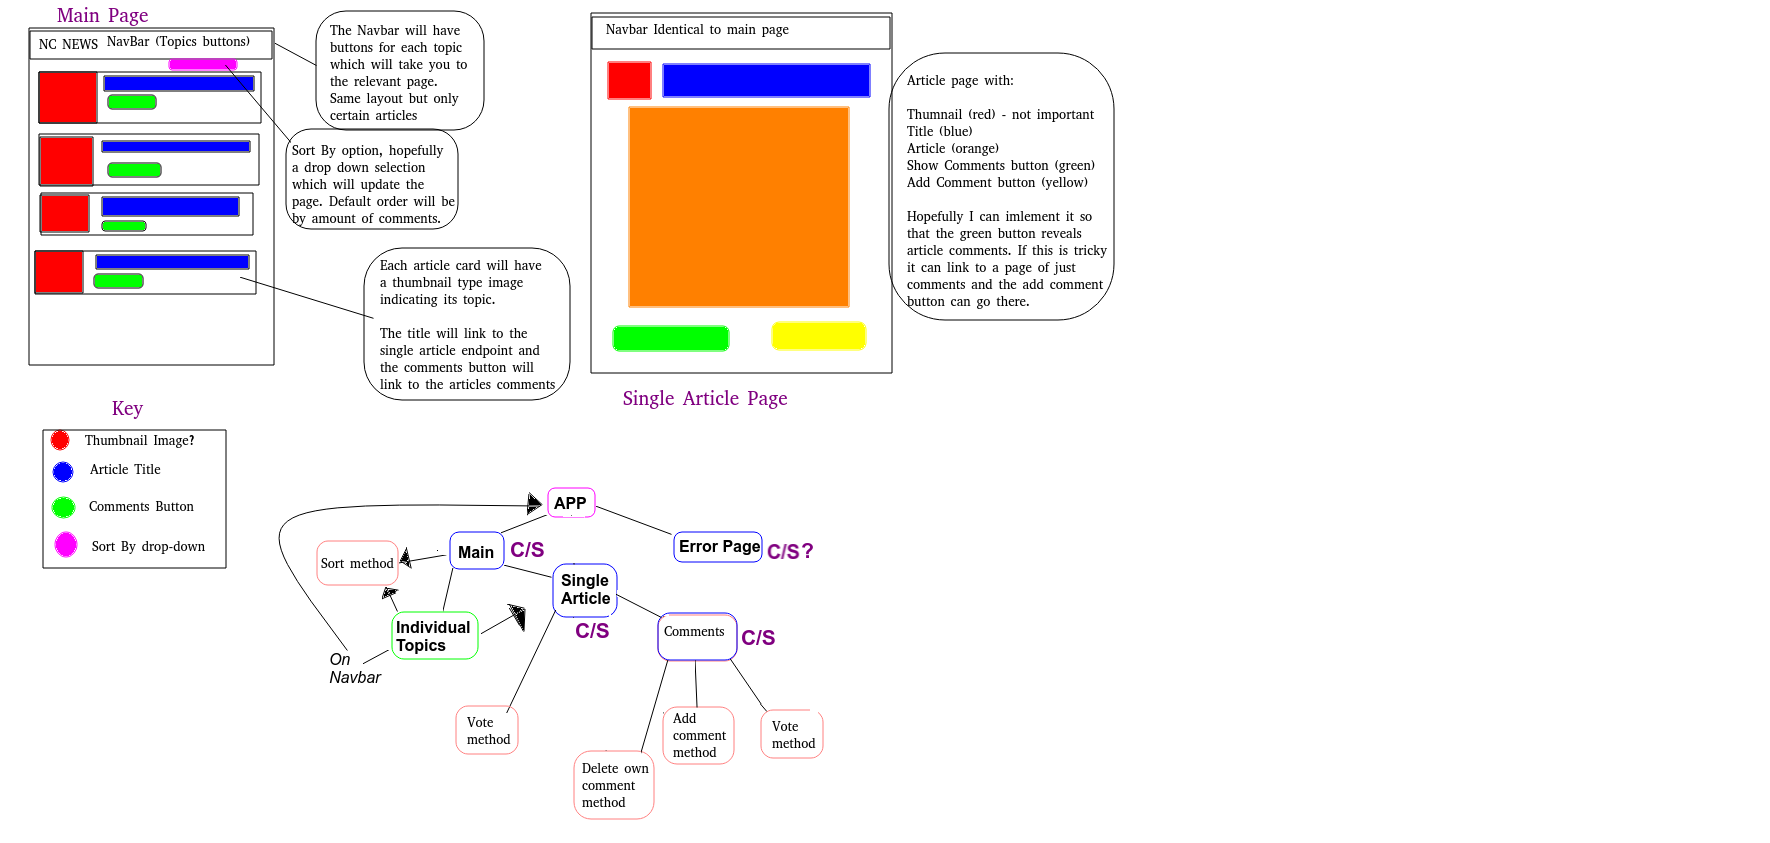
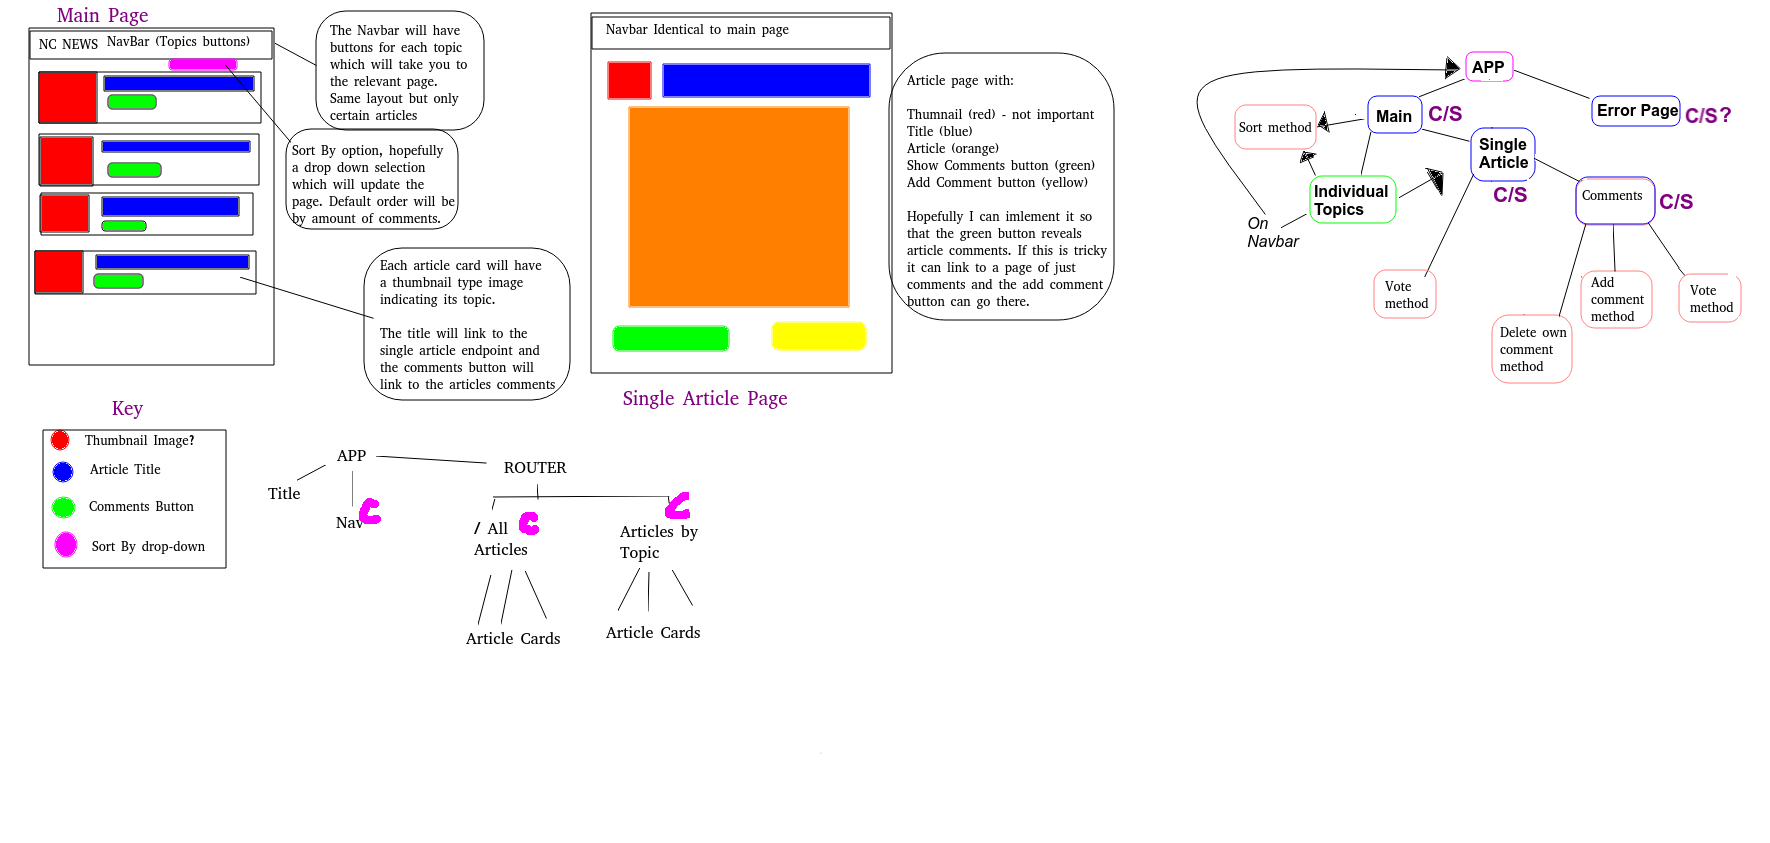
done some intitial setup for app and components

diff --git a/src/components/NavBar.js b/src/components/NavBar.js
@@ -1,0 +1,35 @@
+import React, { Component } from 'react';
+import { Link } from '@reach/router';
+import { getTopics } from '../api';
+
+class NavBar extends Component {
+  state = {
+    topics: []
+  };
+
+  componentDidMount() {
+    getTopics().then((topics) => {
+      this.setState({ topics });
+    });
+  }
+
+  render() {
+    const { topics } = this.state;
+    return (
+      <nav className="nav">
+        <Link to="/" className="nav-btn">
+          Home
+        </Link>
+        {topics.map((topic) => {
+          return (
+            <Link to={`/${topic.slug}`} className="nav-btn">
+              {topic.slug}
+            </Link>
+          );
+        })}
+      </nav>
+    );
+  }
+}
+
+export default NavBar;

diff --git a/src/App.js b/src/App.js
@@ -1,12 +1,18 @@
-
+import { Router } from '@reach/router';
 import './App.css';
+import NavBar from './components/NavBar';
+import ArticleList from './components/ArticleList';
+import Title from './components/Title';
 
 function App() {
   return (
-    <div className="App">
-      <header className="App-header">
-      </header>
-    </div>
+    <main className="App">
+      <NavBar className="NavBar" />
+      <Title className="Title" />
+      <Router>
+        <ArticleList path="/" className="ArticleList" />
+      </Router>
+    </main>
   );
 }
 

diff --git a/src/components/ArticleList.js b/src/components/ArticleList.js
@@ -1,0 +1,23 @@
+import React, { Component } from 'react';
+
+class ArticleList extends Component {
+  state = {
+    articles: [],
+    isLoading: true
+  };
+
+  componentDidMount() {
+    console.log('mounto');
+  }
+  render() {
+    return (
+      <div className="content">
+        <p> Article</p>
+        <p> Article</p>
+        <p> Article</p>
+      </div>
+    );
+  }
+}
+
+export default ArticleList;

diff --git a/src/api.js b/src/api.js
@@ -1,0 +1,11 @@
+import axios from 'axios';
+
+const newsApi = axios.create({
+  baseURL: 'https://news-api-project.herokuapp.com/api'
+});
+
+export const getTopics = () => {
+  return newsApi.get('/topics').then(({ data }) => {
+    return data.topics;
+  });
+};

diff --git a/src/App.css b/src/App.css
@@ -1,3 +1,22 @@
+* {
+  margin: 0%;
+  padding: 0%;
+}
+
 .App {
   text-align: center;
+  font-family: monospace;
+}
+
+.NavBar {
+  border: coral solid 3px;
+}
+
+.Title {
+}
+
+.ArticleList {
+}
+
+.nav-btn {
 }

diff --git a/src/components/Title.js b/src/components/Title.js
@@ -1,0 +1,7 @@
+import React from 'react';
+
+const Title = () => {
+  return <h1 className="title">Welcome To NC News</h1>;
+};
+
+export default Title;

diff --git a/src/index.css b/src/index.css
@@ -1,0 +1,6 @@
+/* html,
+body,
+#app,
+#app > div {
+  height: 100%;
+} */
